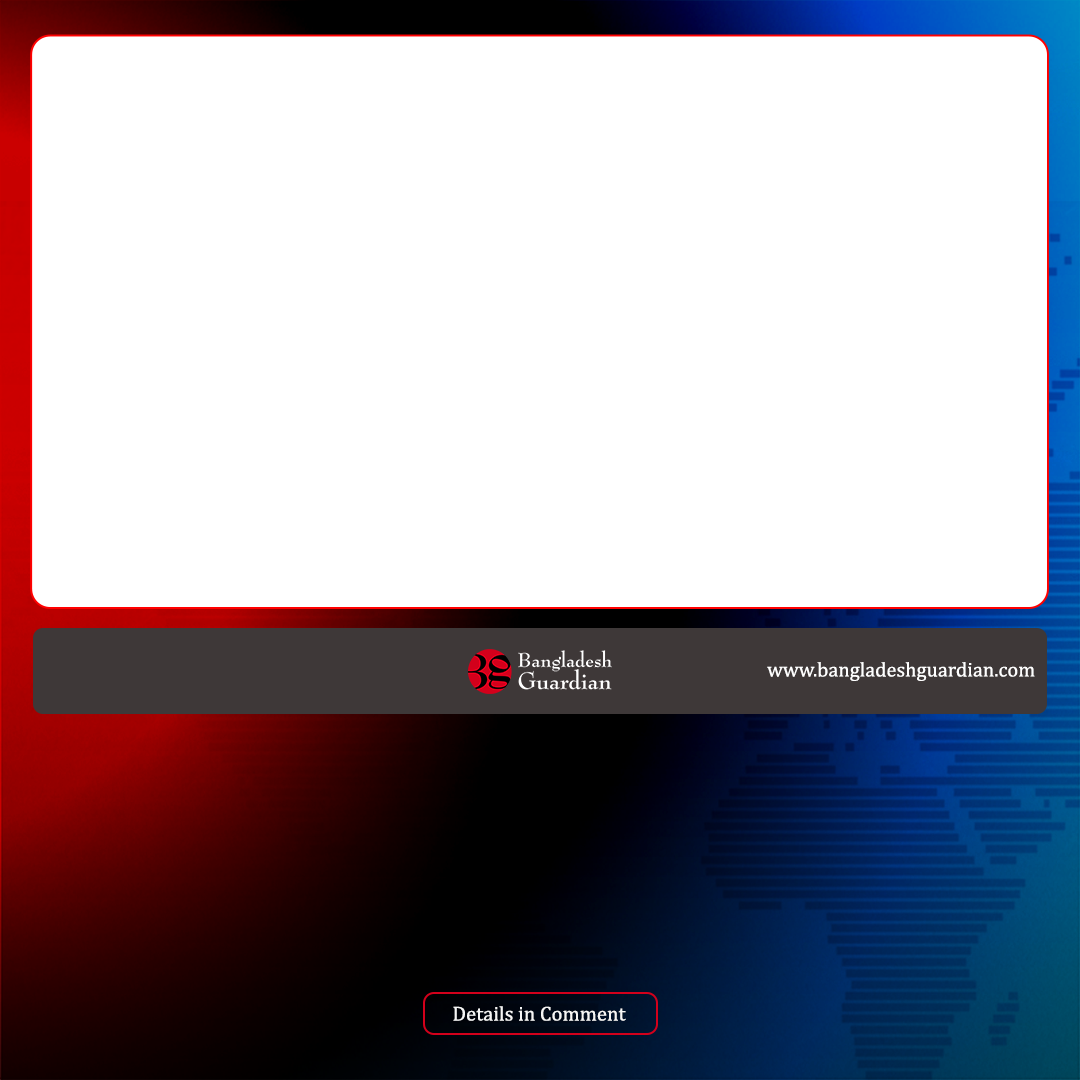
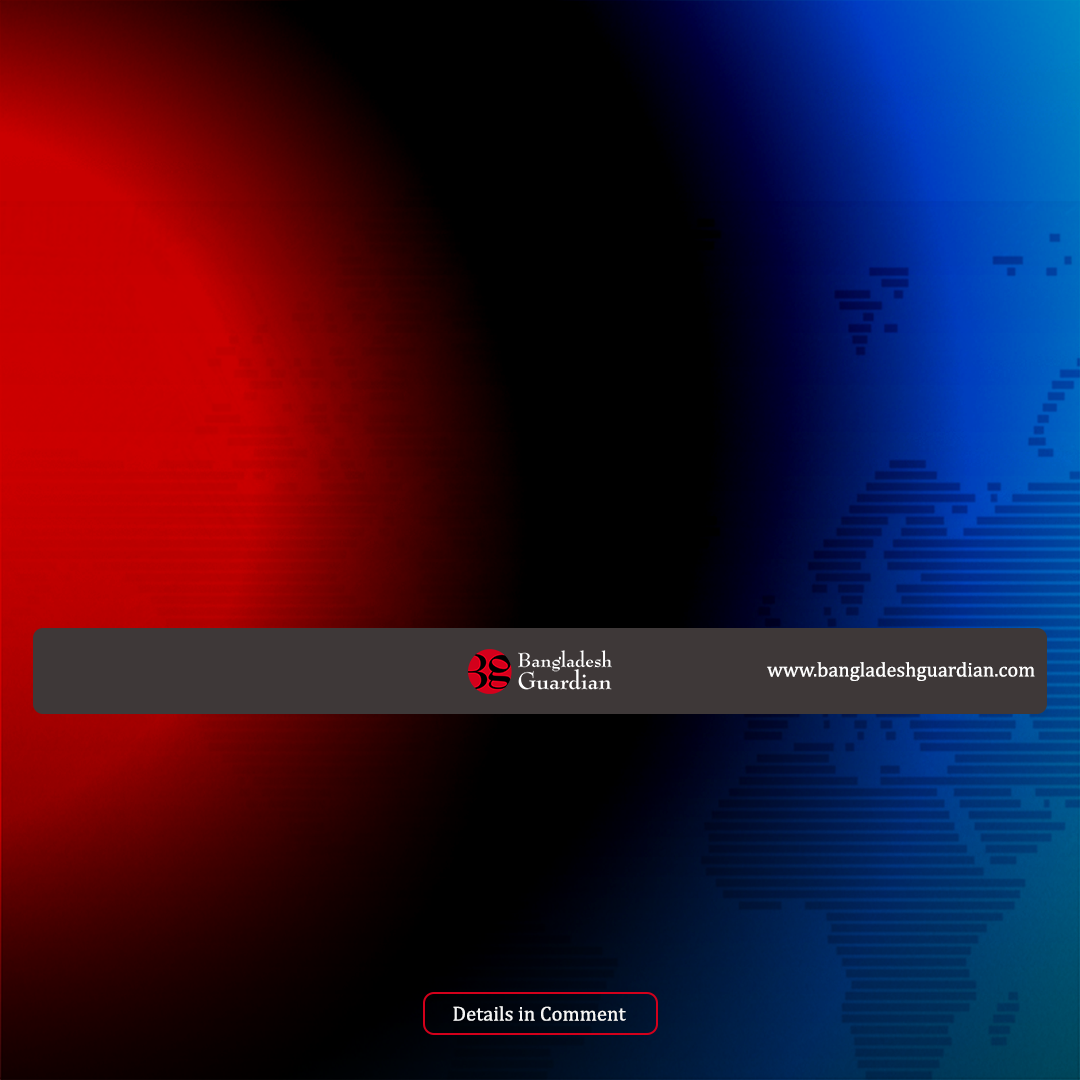
Update SJ photocard generator with new template and date controls
- Replaced PhotocardTemplate.png with new image.
- Decreased title line spacing multiplier to 0.45.
- Changed date formatting to sentence case (removed .toUpperCase()).
- Added date placement (Up/Down/Left/Right) and font size controls to the UI.
- Updated canvas rendering logic to use new date settings.

diff --git a/src/pages/SJ.tsx b/src/pages/SJ.tsx
@@ -2,13 +2,16 @@ import React, { useState, useRef, useEffect } from 'react';
 import { Button } from "@/components/ui/button";
 import { Input } from "@/components/ui/input";
 import { Label } from "@/components/ui/label";
-import { Download, RefreshCw, Image as ImageIcon } from "lucide-react";
+import { Download, RefreshCw, Image as ImageIcon, ChevronUp, ChevronDown, ChevronLeft, ChevronRight } from "lucide-react";
 import { toast } from "sonner";
 
 const SJ = () => {
   const [title, setTitle] = useState('');
   const [imageUrl, setImageUrl] = useState('');
   const [fontSize, setFontSize] = useState(70);
+  const [dateXOffset, setDateXOffset] = useState(0);
+  const [dateYOffset, setDateYOffset] = useState(0);
+  const [dateFontSize, setDateFontSize] = useState(26);
   const [isGenerating, setIsGenerating] = useState(false);
   const canvasRef = useRef<HTMLCanvasElement>(null);
   const [previewUrl, setPreviewUrl] = useState<string | null>(null);
@@ -144,7 +147,7 @@ const SJ = () => {
       // 2. Ensure fonts are loaded
       await Promise.all([
         document.fonts.load(`bold ${fontSize}px "Cambria"`),
-        document.fonts.load('26px "Cambria"')
+        document.fonts.load(`${dateFontSize}px "Cambria"`)
       ]).catch(e => console.warn('Font loading failed:', e));
 
       // 3. Draw User Image
@@ -194,11 +197,11 @@ const SJ = () => {
       ctx.restore();
 
       // 4. Draw Date (Double size)
-      ctx.font = '26px "Cambria"';
+      ctx.font = `${dateFontSize}px "Cambria"`;
       ctx.fillStyle = 'white';
       ctx.textAlign = 'left';
       ctx.textBaseline = 'middle';
-      ctx.fillText(formatDate(new Date()).toUpperCase(), DATE_X, DATE_Y);
+      ctx.fillText(formatDate(new Date()), DATE_X + dateXOffset, DATE_Y + dateYOffset);
 
       // 5. Draw Title with Auto-scaling
       let currentFontSize = fontSize;
@@ -232,7 +235,7 @@ const SJ = () => {
 
       if (lines[1]) {
         // Use a slightly larger multiplier for line spacing to avoid overlap at large sizes
-        const spacing = currentFontSize * 0.6;
+        const spacing = currentFontSize * 0.45;
         ctx.fillText(lines[0], TITLE_X, TITLE_Y - spacing);
         ctx.fillText(lines[1], TITLE_X, TITLE_Y + spacing);
       } else {
@@ -311,6 +314,48 @@ const SJ = () => {
                   <Button variant="outline" size="icon" onClick={() => setImageUrl('')}>
                     <RefreshCw className="h-4 w-4" />
                   </Button>
+                </div>
+              </div>
+
+              <div className="pt-4 border-t border-border space-y-4">
+                <Label className="text-sm font-semibold uppercase tracking-wider text-muted-foreground">Date Settings</Label>
+
+                <div className="space-y-2">
+                  <Label htmlFor="dateFontSize">Date Font Size ({dateFontSize}px)</Label>
+                  <Input
+                    id="dateFontSize"
+                    type="number"
+                    min="10"
+                    max="100"
+                    value={dateFontSize}
+                    onChange={(e) => setDateFontSize(parseInt(e.target.value) || 26)}
+                    className="bg-surface-2 border-border"
+                  />
+                </div>
+
+                <div className="space-y-2">
+                  <Label>Date Position</Label>
+                  <div className="grid grid-cols-3 gap-2 w-fit mx-auto">
+                    <div />
+                    <Button variant="outline" size="icon" onClick={() => setDateYOffset(prev => prev - 5)}>
+                      <ChevronUp className="h-4 w-4" />
+                    </Button>
+                    <div />
+                    <Button variant="outline" size="icon" onClick={() => setDateXOffset(prev => prev - 5)}>
+                      <ChevronLeft className="h-4 w-4" />
+                    </Button>
+                    <div className="flex items-center justify-center text-xs text-muted-foreground">
+                      {dateXOffset},{dateYOffset}
+                    </div>
+                    <Button variant="outline" size="icon" onClick={() => setDateXOffset(prev => prev + 5)}>
+                      <ChevronRight className="h-4 w-4" />
+                    </Button>
+                    <div />
+                    <Button variant="outline" size="icon" onClick={() => setDateYOffset(prev => prev + 5)}>
+                      <ChevronDown className="h-4 w-4" />
+                    </Button>
+                    <div />
+                  </div>
                 </div>
               </div>
             </div>
